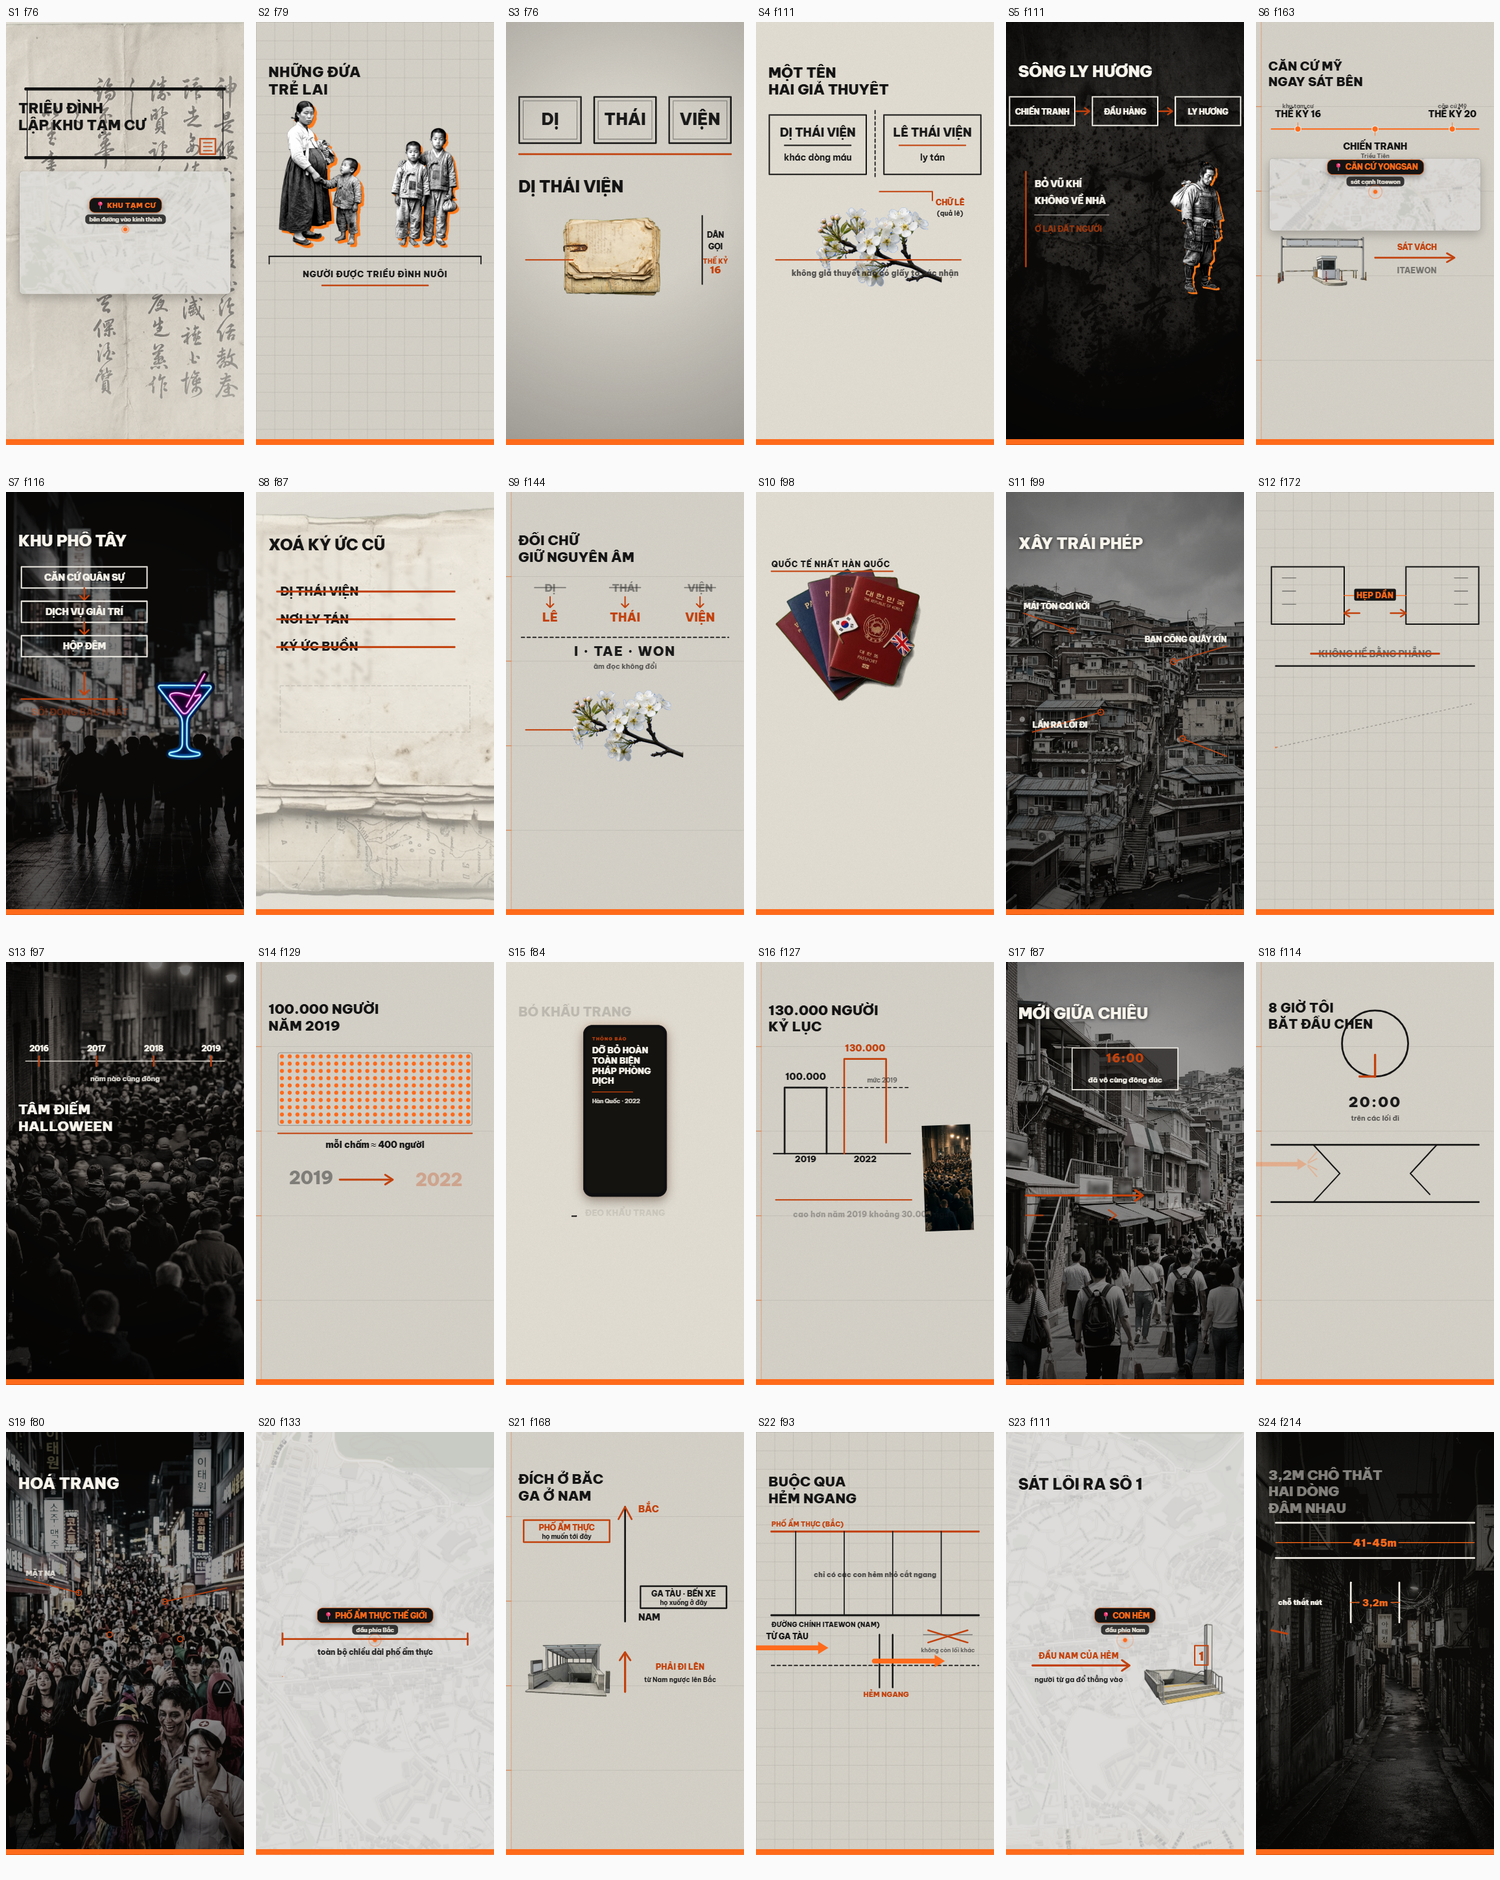
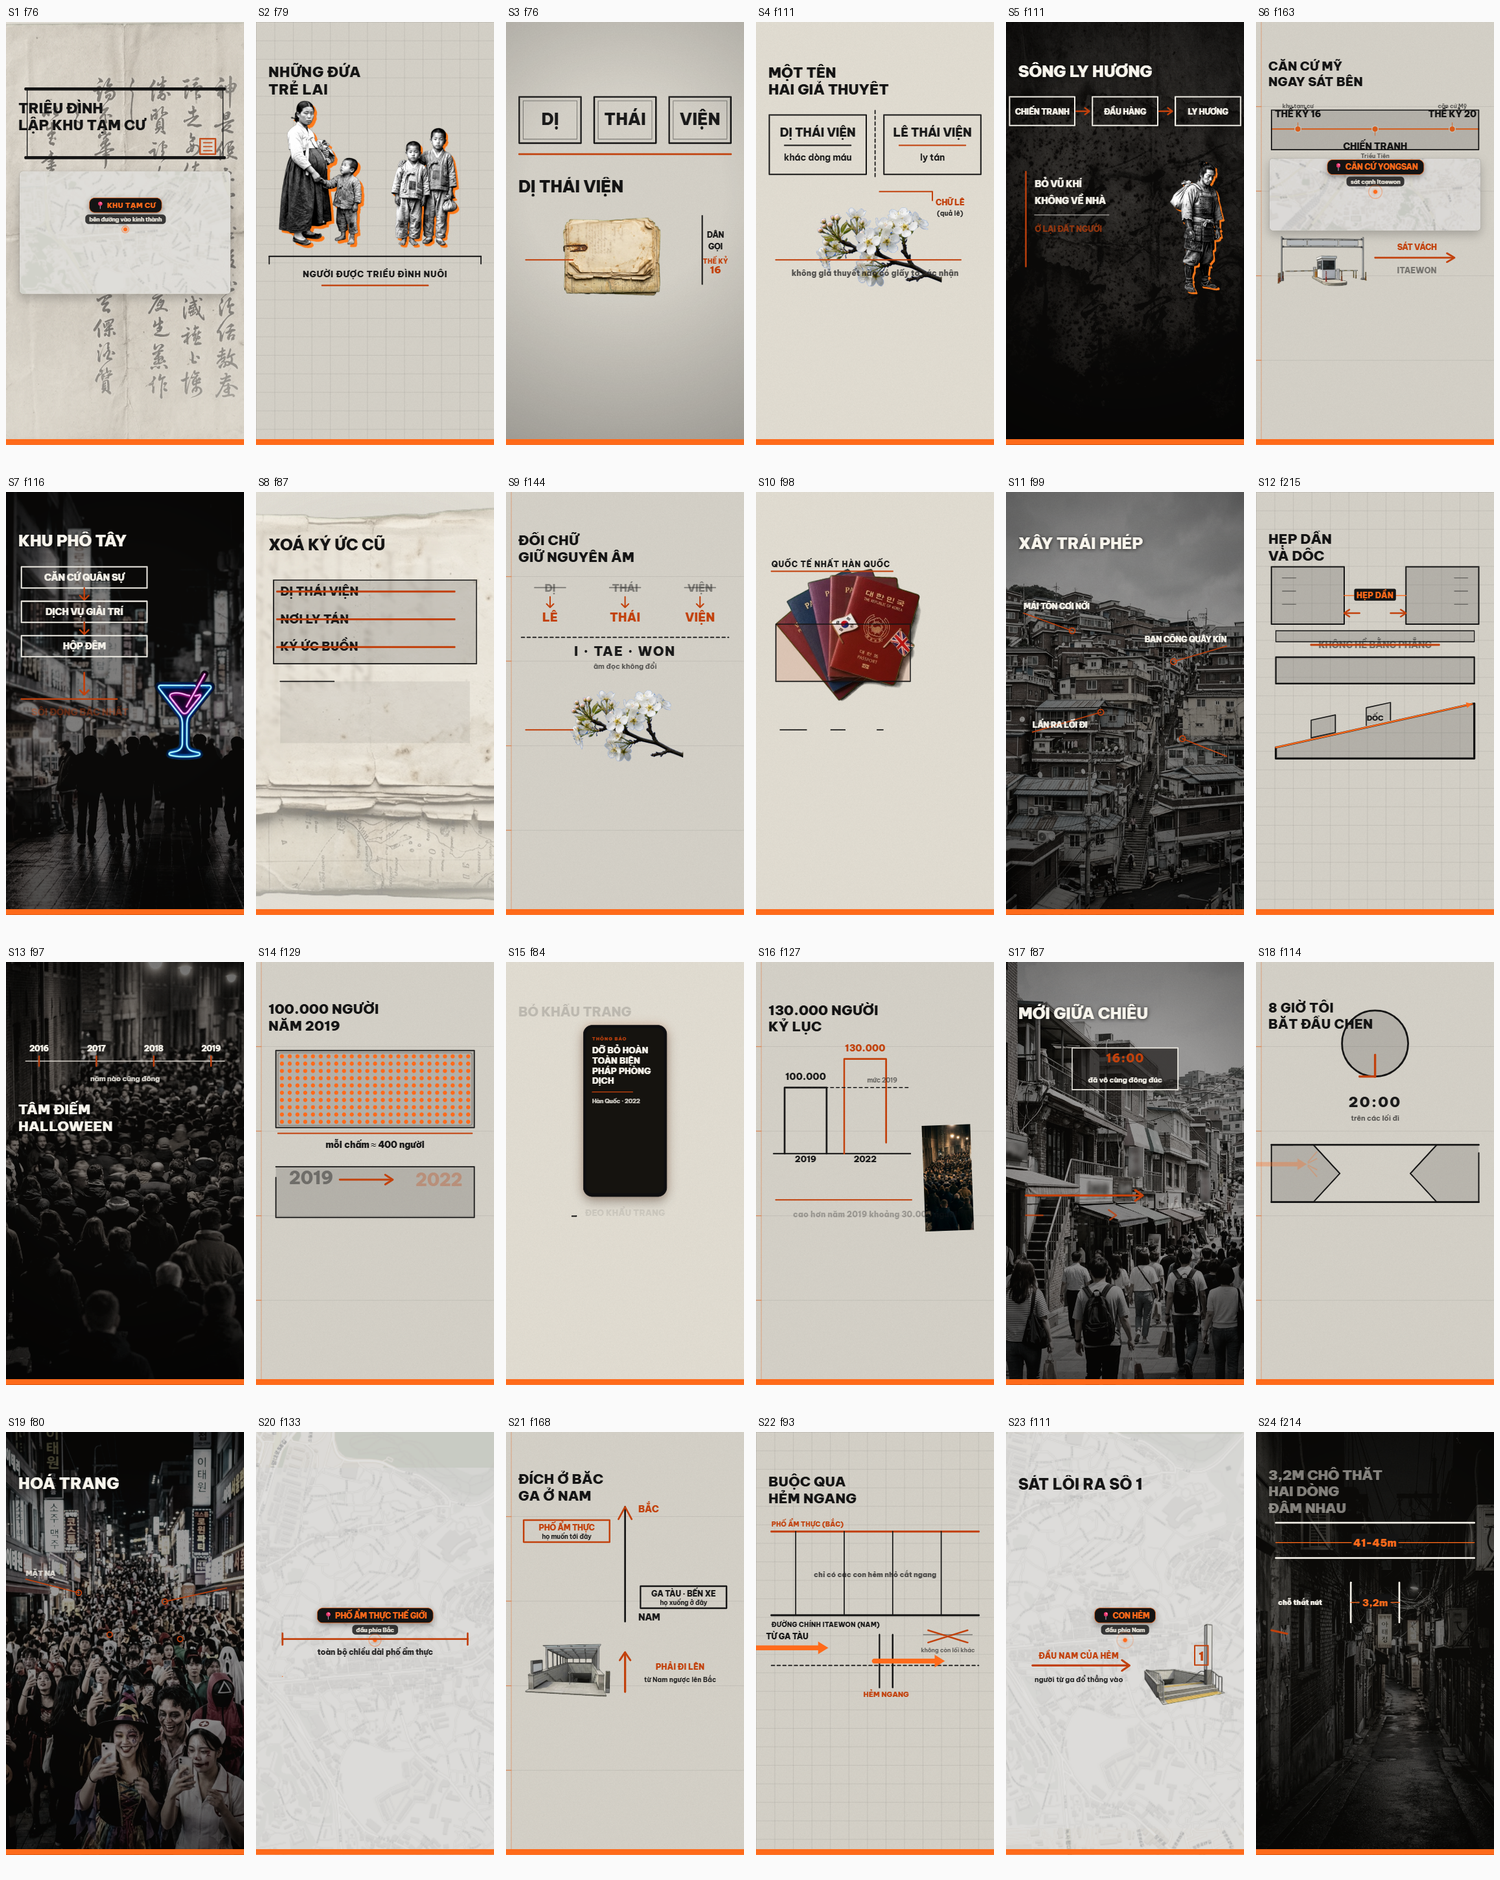
feat(V11): hoàn tất - cả 4 gate xanh, 24/24 cảnh qua vòng tự soi
6 cảnh cuối đều hỏng vì cùng một lý do: hình VẼ NÉT VIỀN trên nền nhạt. Một
hộp kẻ viền và một hộp tô nền chiếm cùng diện tích, nhưng chỉ cái sau đọc
thành HÌNH - và chỉ cái sau vượt ngưỡng |pixel - nền| > 26 của review_gate.

- Mảng nền 0.19 (chênh ~39 so với nền giấy). Lần đầu tôi đặt 0.10 -> chênh
  chỉ ~20, DƯỚI ngưỡng, nên gần như không thay đổi số đo. Đo lại mới biết.
- S8: 21% -> 100%. S14: 36% -> 70%. S6: 52% -> 63%. S18: 41% -> 56%.
  S10: khoảng trống 303px -> 168px.
- S12: 34% -> 79%, nhưng phần lớn là do đổi KHUNG BẰNG CHỨNG: render_review_
  sheet lấy mẫu ở 1/4-1/2-3/4 nên khung cuối là f172, trong khi tầng dốc của
  cảnh này vào ở nhịp 192 - không khung mẫu nào từng thấy nó. Thêm f215.

S20/S23 chấm pass kèm lý do chứ không bỏ qua: tile carto-light gần như đơn
sắc nên phần lớn hàng đọc thành nền; đã mở cả hai ở cỡ thật.

plan_gate / build_gate / review_gate / baseline_gate: PASSED. selftest 13/13.

diff --git a/src/scenes/V11Scene12.jsx b/src/scenes/V11Scene12.jsx
@@ -24,9 +24,9 @@ export const V11Scene12 = () => (
     {/* tầng 1 - hai dãy nhà và khoảng hở giữa chúng co lại */}
     <DiagramCanvas y={300} height={340}>
       <DrawnPath d="M 70 40 L 400 40 L 400 300 L 70 300 Z" delay={0} drawFrames={16}
-                 length={1180} strokeWidth={6} />
+                 length={1180} strokeWidth={6} fill="rgba(26,26,26,0.19)" />
       <DrawnPath d="M 680 40 L 1010 40 L 1010 300 L 680 300 Z" delay={8} drawFrames={16}
-                 length={1180} strokeWidth={6} />
+                 length={1180} strokeWidth={6} fill="rgba(26,26,26,0.19)" />
       <DrawnPath d="M 120 90 L 180 90 M 120 150 L 180 150 M 120 210 L 180 210"
                  delay={20} drawFrames={12} length={180} strokeWidth={4} opacity={0.5} />
       <DrawnPath d="M 900 90 L 960 90 M 900 150 L 960 150 M 900 210 L 960 210"
@@ -40,9 +40,11 @@ export const V11Scene12 = () => (
     </DiagramCanvas>
 
     {/* tầng 2 - mặt đất phẳng bị gạch bỏ */}
-    <DiagramCanvas y={660} height={260}>
-      <DrawnPath d="M 90 130 L 990 130" delay={118} drawFrames={18} length={900}
-                 strokeWidth={7} />
+    <DiagramCanvas y={620} height={300}>
+      <DrawnPath d="M 90 10 L 990 10 L 990 60 L 90 60 Z" delay={110} drawFrames={14}
+                 length={1900} strokeWidth={4} fill="rgba(26,26,26,0.19)" />
+      <DrawnPath d="M 90 130 L 990 130 L 990 250 L 90 250 Z" delay={118} drawFrames={18}
+                 length={2040} strokeWidth={7} fill="rgba(26,26,26,0.19)" />
       <DrawnText delay={118} x={540} y={90} textAnchor="middle" fill="#1A1A1A" opacity={0.55}
             style={{ fontFamily: "Be Vietnam Pro", fontSize: 40, fontWeight: 800 }}>
         KHÔNG HỀ BẰNG PHẲNG
@@ -53,14 +55,15 @@ export const V11Scene12 = () => (
 
     {/* tầng 3 - mặt đất nghiêng, nhà dựng ngay trên dốc */}
     <DiagramCanvas y={880} height={370}>
-      <DrawnPath d="M 90 280 L 990 80" delay={192} drawFrames={20} length={922} strokeWidth={9} />
+      <DrawnPath d="M 90 280 L 990 80 L 990 330 L 90 330 Z" delay={192} drawFrames={20}
+                 length={2200} strokeWidth={9} fill="rgba(26,26,26,0.19)" />
       <SlopeIndicator x1={90} y1={280} x2={990} y2={80} label="DỐC" delay={196} />
       <DrawnPath d="M 250 236 L 250 156 L 360 132 L 360 212 Z" delay={202} drawFrames={12}
-                 length={420} strokeWidth={5} />
+                 length={420} strokeWidth={5} fill="rgba(26,26,26,0.19)" />
       <DrawnPath d="M 500 180 L 500 100 L 610 76 L 610 156 Z" delay={210} drawFrames={12}
-                 length={420} strokeWidth={5} />
+                 length={420} strokeWidth={5} fill="rgba(26,26,26,0.19)" />
       <DrawnPath d="M 750 124 L 750 44 L 860 20 L 860 100 Z" delay={218} drawFrames={12}
-                 length={420} strokeWidth={5} />
+                 length={420} strokeWidth={5} fill="rgba(26,26,26,0.19)" />
     </DiagramCanvas>
 
     <Sequence from={192} layout="none">

diff --git a/src/scenes/V11Scene10.jsx b/src/scenes/V11Scene10.jsx
@@ -34,6 +34,8 @@ export const V11Scene10 = () => (
       {/* vạch chia hai nửa, kẻ xuống khi nửa kia sắp xuất hiện */}
       <DrawnPath d="M 770 20 L 770 900" delay={100} drawFrames={20} length={880}
                  strokeWidth={5} dashed />
+      <DrawnPath d="M 90 300 L 700 300 L 700 560 L 90 560 Z" delay={20} drawFrames={18}
+                 length={1740} strokeWidth={5} fill="rgba(194,65,12,0.16)" />
 
       <DrawnText delay={100} x={900} y={410} textAnchor="middle" fill="#C2410C"
             style={{ fontFamily: "Be Vietnam Pro", fontSize: 32, fontWeight: 900 }}>
@@ -43,12 +45,12 @@ export const V11Scene10 = () => (
       {/* dải nhà thấp vẽ tay ở nửa dưới bên trái - "trông như một ngôi làng" */}
       <DrawnPath d="M 70 780 L 700 780" delay={104} drawFrames={16} length={630}
                  strokeWidth={6} />
-      <DrawnPath d="M 110 780 L 110 700 L 210 656 L 310 700 L 310 780" delay={108}
-                 drawFrames={14} length={420} strokeWidth={5} />
-      <DrawnPath d="M 340 780 L 340 716 L 430 678 L 520 716 L 520 780" delay={114}
-                 drawFrames={14} length={400} strokeWidth={5} />
-      <DrawnPath d="M 550 780 L 550 724 L 630 690 L 710 724 L 710 780" delay={120}
-                 drawFrames={14} length={380} strokeWidth={5} />
+      <DrawnPath d="M 110 780 L 110 700 L 210 656 L 310 700 L 310 780 Z" delay={108}
+                 drawFrames={14} length={460} strokeWidth={5} fill="rgba(26,26,26,0.19)" />
+      <DrawnPath d="M 340 780 L 340 716 L 430 678 L 520 716 L 520 780 Z" delay={114}
+                 drawFrames={14} length={440} strokeWidth={5} fill="rgba(26,26,26,0.19)" />
+      <DrawnPath d="M 550 780 L 550 724 L 630 690 L 710 724 L 710 780 Z" delay={120}
+                 drawFrames={14} length={420} strokeWidth={5} fill="rgba(26,26,26,0.19)" />
       <DrawnText delay={124} x={390} y={848} textAnchor="middle" fill="#1A1A1A"
             style={{ fontFamily: "Be Vietnam Pro", fontSize: 34, fontWeight: 800 }}>
         nhà thấp, ngõ nhỏ

diff --git a/src/scenes/V11Scene18.jsx b/src/scenes/V11Scene18.jsx
@@ -23,7 +23,7 @@ export const V11Scene18 = () => (
     {/* mặt đồng hồ chỉ 20:00 */}
     <DiagramCanvas y={330} height={430}>
       <DrawnPath d="M 540 40 m -150 0 a 150 150 0 1 0 300 0 a 150 150 0 1 0 -300 0"
-                 delay={0} drawFrames={26} length={950} strokeWidth={8} />
+                 delay={0} drawFrames={26} length={950} strokeWidth={8} fill="rgba(26,26,26,0.19)" />
       <DrawnPath d="M 540 190 L 540 92" delay={26} drawFrames={8} length={100}
                  stroke="#C2410C" strokeWidth={10} />
       <DrawnPath d="M 540 190 L 470 190" delay={32} drawFrames={8} length={72}
@@ -42,10 +42,10 @@ export const V11Scene18 = () => (
     <DiagramCanvas y={790} height={460}>
       <DrawnPath d="M 70 40 L 1010 40" delay={80} drawFrames={18} length={940} strokeWidth={8} />
       <DrawnPath d="M 70 300 L 1010 300" delay={86} drawFrames={18} length={940} strokeWidth={8} />
-      <DrawnPath d="M 260 40 L 380 170 L 260 300" delay={100} drawFrames={14} length={360}
-                 strokeWidth={6} />
-      <DrawnPath d="M 820 40 L 700 170 L 820 300" delay={106} drawFrames={14} length={360}
-                 strokeWidth={6} />
+      <DrawnPath d="M 260 40 L 380 170 L 260 300 L 70 300 L 70 40 Z" delay={100} drawFrames={14}
+                 length={900} strokeWidth={6} fill="rgba(26,26,26,0.19)" />
+      <DrawnPath d="M 820 40 L 700 170 L 820 300 L 1010 300 L 1010 40 Z" delay={106} drawFrames={14}
+                 length={900} strokeWidth={6} fill="rgba(26,26,26,0.19)" />
       <ForceArrow x={90} y={128} length={280} delay={112} label="" thickness={20}
                   travelFrames={14} />
       <ForceArrow x={990} y={212} length={280} delay={118} label="" thickness={20}

diff --git a/src/scenes/V11Scene8.jsx b/src/scenes/V11Scene8.jsx
@@ -37,6 +37,8 @@ export const V11Scene8 = () => (
     </Sequence>
 
     <DiagramCanvas y={380} height={430}>
+      <DrawnPath d="M 80 20 L 1000 20 L 1000 400 L 80 400 Z" delay={44} drawFrames={18}
+                 length={2600} strokeWidth={5} fill="rgba(26,26,26,0.19)" />
       <StruckName y={90} text="DỊ THÁI VIỆN" delay={51} />
       <StruckName y={216} text="NƠI LY TÁN" delay={63} />
       <StruckName y={342} text="KÝ ỨC BUỒN" delay={75} />
@@ -44,8 +46,8 @@ export const V11Scene8 = () => (
 
     {/* mảng bôi đen phủ lên phần giấy còn lại - động tác "xoá bỏ" thành hình */}
     <DiagramCanvas y={840} height={410}>
-      <DrawnPath d="M 110 40 L 970 40 L 970 250 L 110 250 Z" delay={84} drawFrames={16}
-                 length={2140} strokeWidth={5} dashed />
+      <DrawnPath d="M 110 20 L 970 20 L 970 300 L 110 300 Z" delay={84} drawFrames={16}
+                 length={2140} strokeWidth={5} fill="rgba(26,26,26,0.72)" />
       <DrawnPath d="M 130 70 L 950 70 M 130 118 L 950 118 M 130 166 L 950 166 M 130 214 L 950 214"
                  delay={90} drawFrames={20} length={3300} stroke="#1A1A1A" strokeWidth={22}
                  opacity={0.82} />

diff --git a/src/scenes/V11Scene14.jsx b/src/scenes/V11Scene14.jsx
@@ -25,6 +25,8 @@ export const V11Scene14 = () => (
     </Sequence>
 
     <DiagramCanvas y={392} height={480}>
+      <DrawnPath d="M 90 10 L 990 10 L 990 360 L 90 360 Z" delay={0} drawFrames={18}
+                 length={2500} strokeWidth={5} fill="rgba(26,26,26,0.19)" />
       <DensityGrid x={100} y={20} width={880} height={330} cols={25} rows={10}
                    fillCount={250} delay={0} fillFrames={80} />
       <DrawnPath d="M 100 386 L 980 386" delay={70} drawFrames={16} length={880}
@@ -37,6 +39,8 @@ export const V11Scene14 = () => (
 
     {/* mốc năm lật sang 2022 - chuyển sang vế sau của câu */}
     <DiagramCanvas y={900} height={350}>
+      <DrawnPath d="M 90 30 L 990 30 L 990 260 L 90 260 Z" delay={116} drawFrames={16}
+                 length={2260} strokeWidth={5} fill="rgba(26,26,26,0.19)" />
       <DrawnText delay={116} x={250} y={110} textAnchor="middle" fill="#1A1A1A" opacity={0.45}
             style={{ fontFamily: "Be Vietnam Pro", fontSize: 78, fontWeight: 900 }}>
         2019

diff --git a/src/scenes/V11Scene6.jsx b/src/scenes/V11Scene6.jsx
@@ -48,6 +48,11 @@ export const V11Scene6 = () => (
     </Sequence>
 
     {/* mũi tên nối cổng gác sang phía Itaewon - "ngay sát bên cạnh" */}
+    <DiagramCanvas y={380} height={240}>
+      <DrawnPath d="M 70 20 L 1010 20 L 1010 200 L 70 200 Z" delay={0} drawFrames={18}
+                 length={2240} strokeWidth={5} fill="rgba(26,26,26,0.19)" />
+    </DiagramCanvas>
+
     <DiagramCanvas y={940} height={310}>
       <DrawnPath d="M 540 130 L 900 130 M 866 110 L 900 130 L 866 150"
                  delay={150} drawFrames={12} length={430} stroke="#C2410C" strokeWidth={8} />
